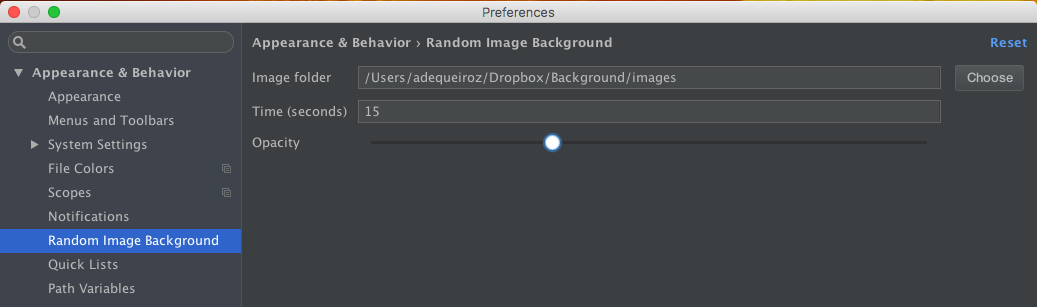
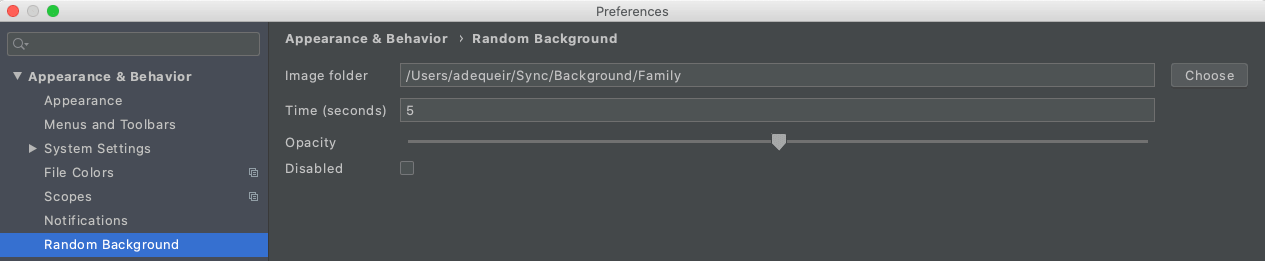
general updates

diff --git a/src/com/allandequeiroz/random/image/background/NotificationCenter.java b/src/com/allandequeiroz/random/image/background/NotificationCenter.java
@@ -7,7 +7,7 @@ import com.intellij.notification.Notifications;
 /** Author: Allan de Queiroz */
 public class NotificationCenter {
 
-  private static final String MESSAGE_PREFIX = "[Random Image Background]";
+  private static final String MESSAGE_PREFIX = "[Random Background]";
 
   public static void notify(final String message) {
     final Notification n =

diff --git a/README.md b/README.md
@@ -1,8 +1,8 @@
-# Random Image Background
+# Random Background
 
 ### Settings
 
-Settings -> Appearance & Behaviour -> Random Image Background  
+Settings -> Appearance & Behaviour -> Random Background  
 - Set the folder (recursive) to pull random background images from
 - Set the time to change between images (seconds)
 
